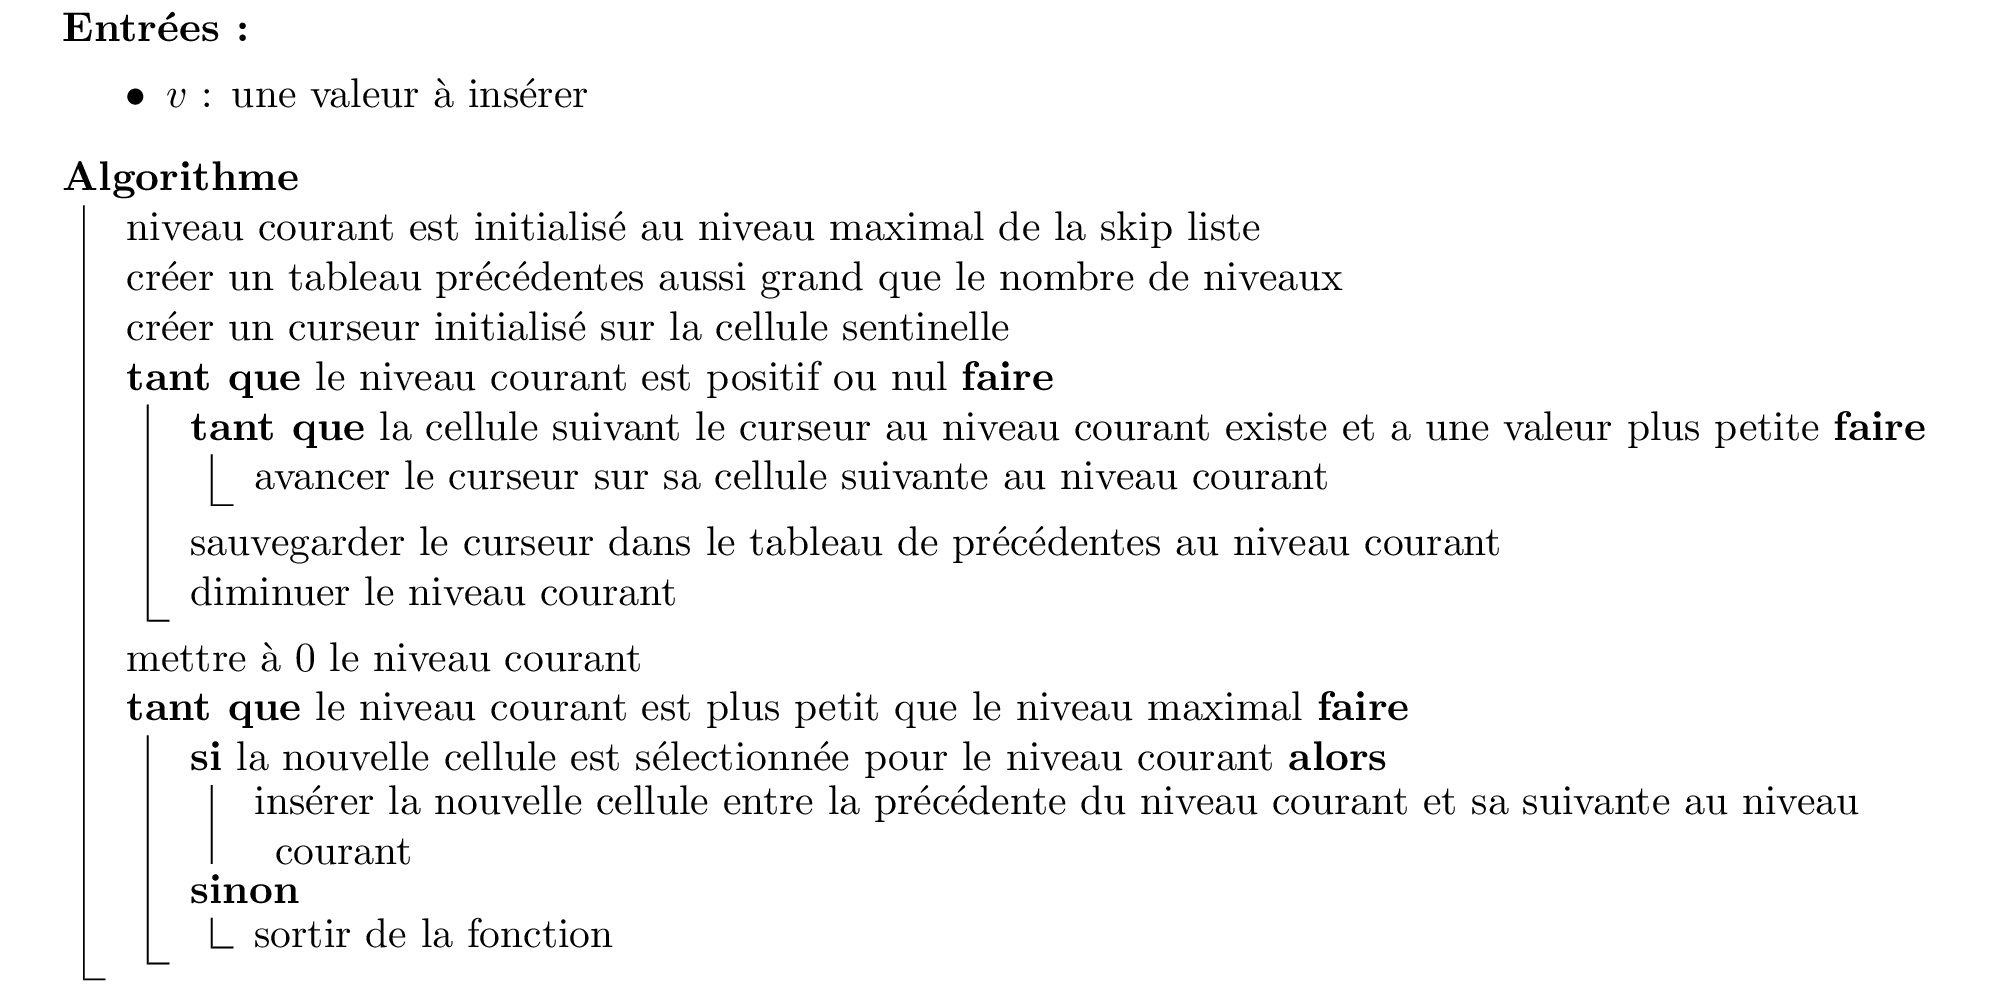
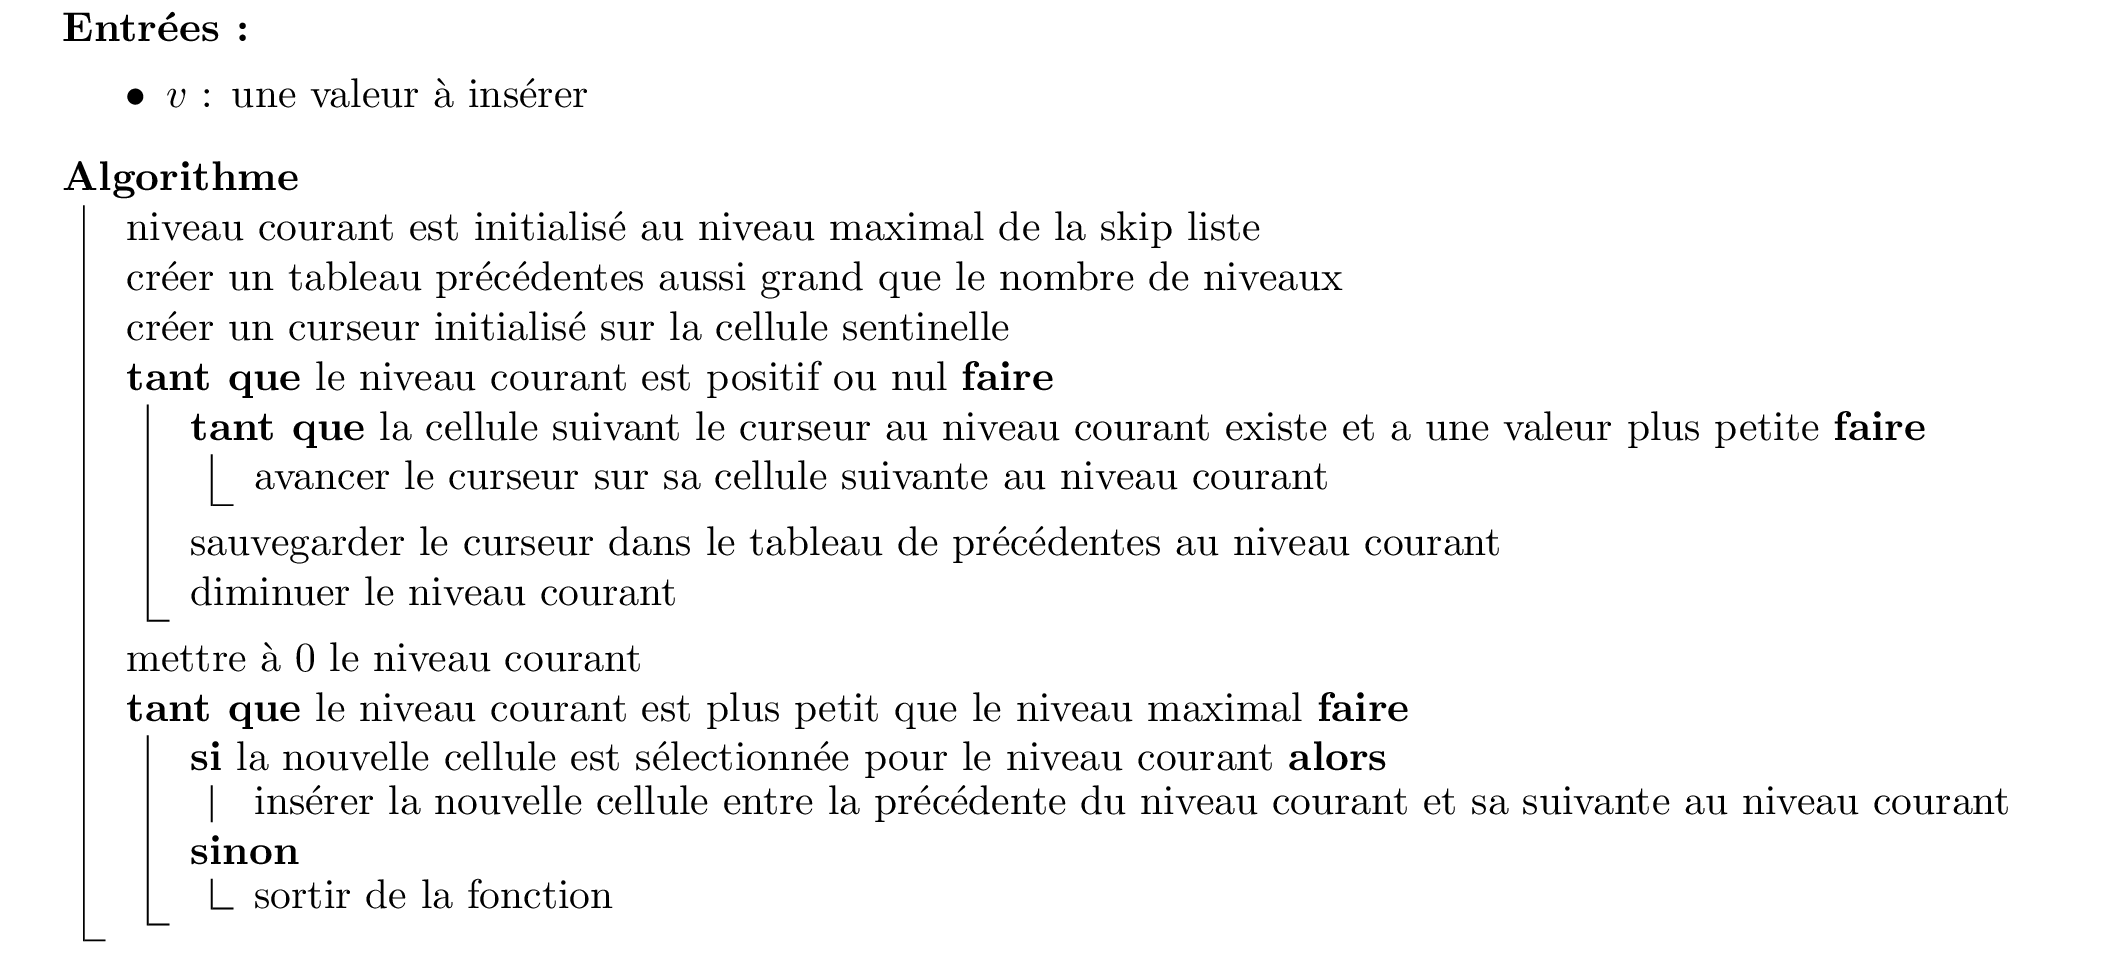
increaser multilevel algo size to prevent linebreak

Changed region(s): [[0.0309, 0.155, 0.9572, 0.9607], [0.0618, 0.062, 0.2779, 0.124], [0.0309, 0.0, 0.1235, 0.062]]

diff --git a/images/algo_insertion_multiniveaux.tex b/images/algo_insertion_multiniveaux.tex
@@ -1,4 +1,4 @@
-\documentclass[varwidth = 17cm]{standalone}
+\documentclass[varwidth = 18cm]{standalone}
 \usepackage{ucblalgo}
 
 \begin{document}
